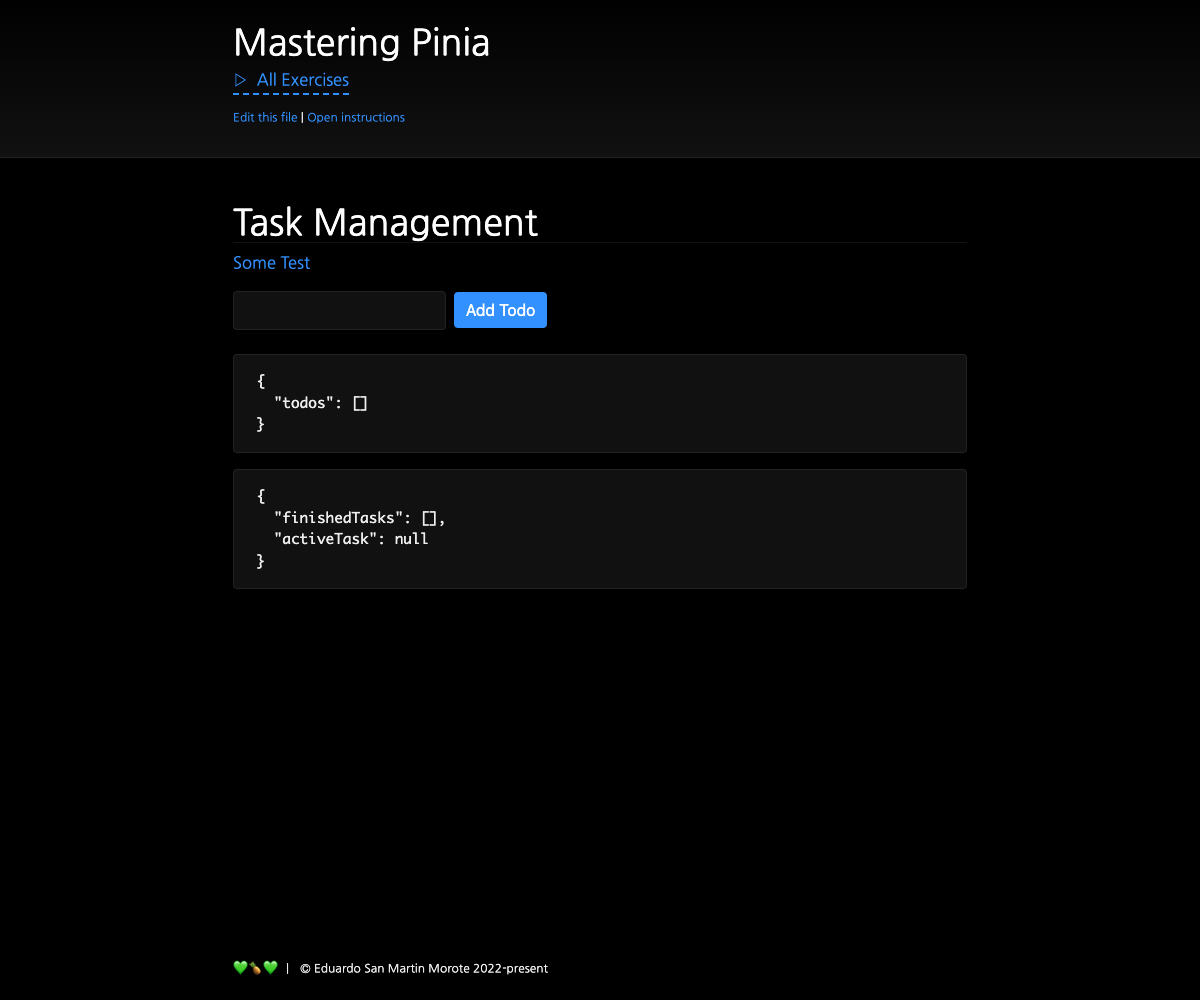
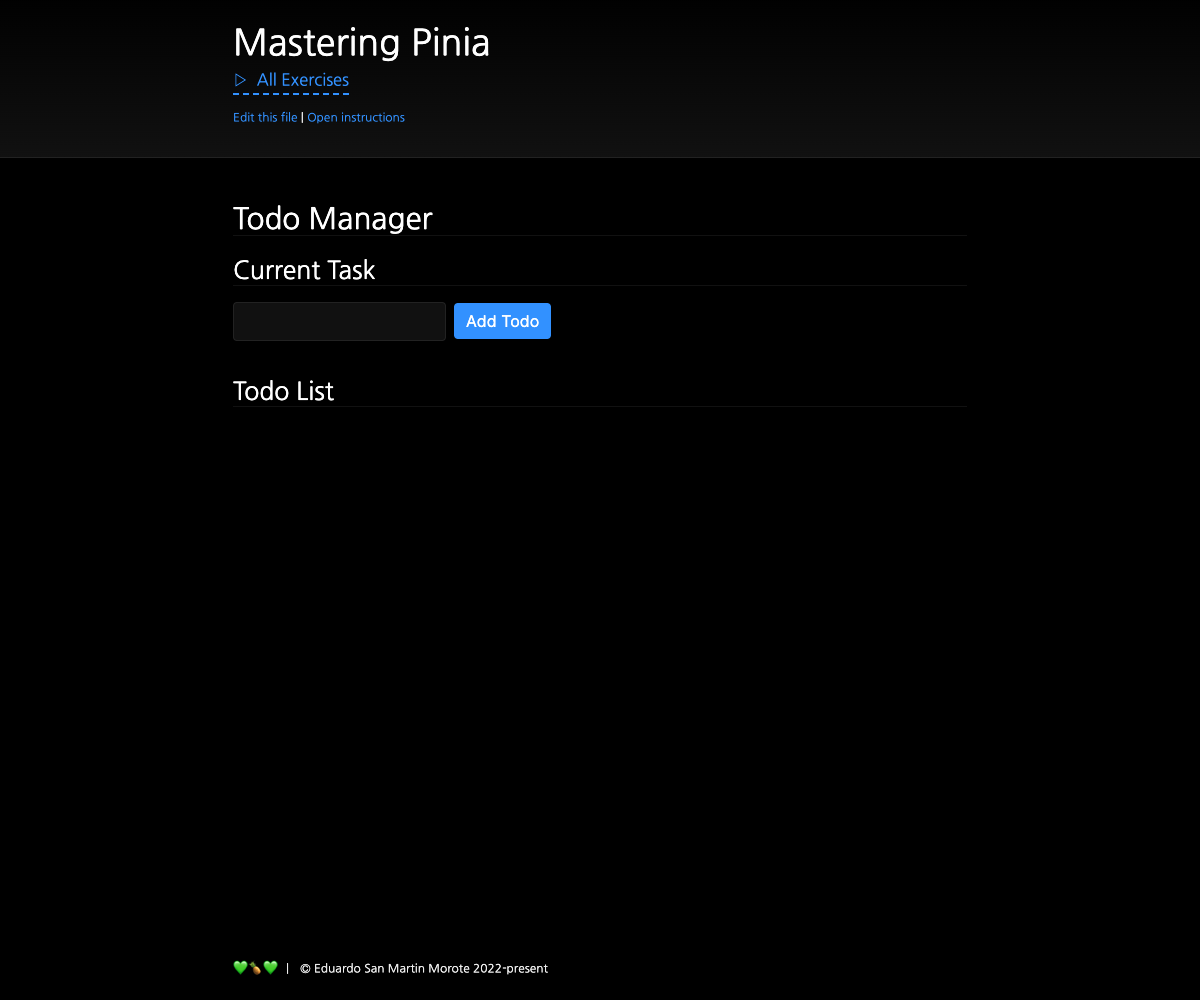
change test and screenshots

diff --git a/src/exercises/6.3-refactoring-stores/.internal/todo-list.spec.ts b/src/exercises/6.3-refactoring-stores/.internal/todo-list.spec.ts
@@ -1,0 +1,21 @@
+import { mount } from '@vue/test-utils'
+import TestComponent from '../index.vue'
+import { describe, it, expect } from 'vitest'
+
+describe('Refactoring Stores', () => {
+  describe('working application', () => {
+    it('mounts a component', async () => {
+      const wrapper = mount(TestComponent)
+
+      expect(wrapper.text().length).toBeGreaterThan(0)
+    })
+  })
+
+  describe('todos store', () => {
+    it('does not expose tasks', async () => {})
+  })
+
+  describe('tasks store', () => {
+    it('exposes a list of tasks', () => {})
+  })
+})
